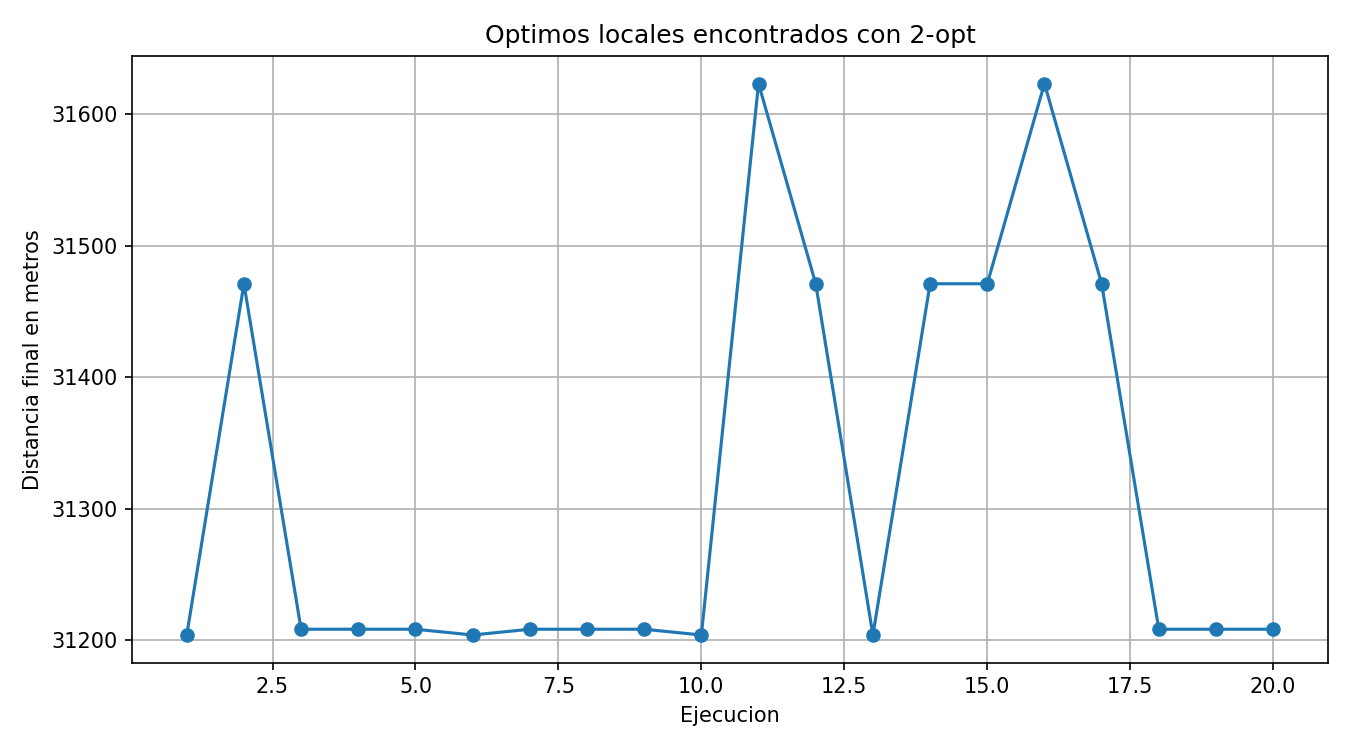
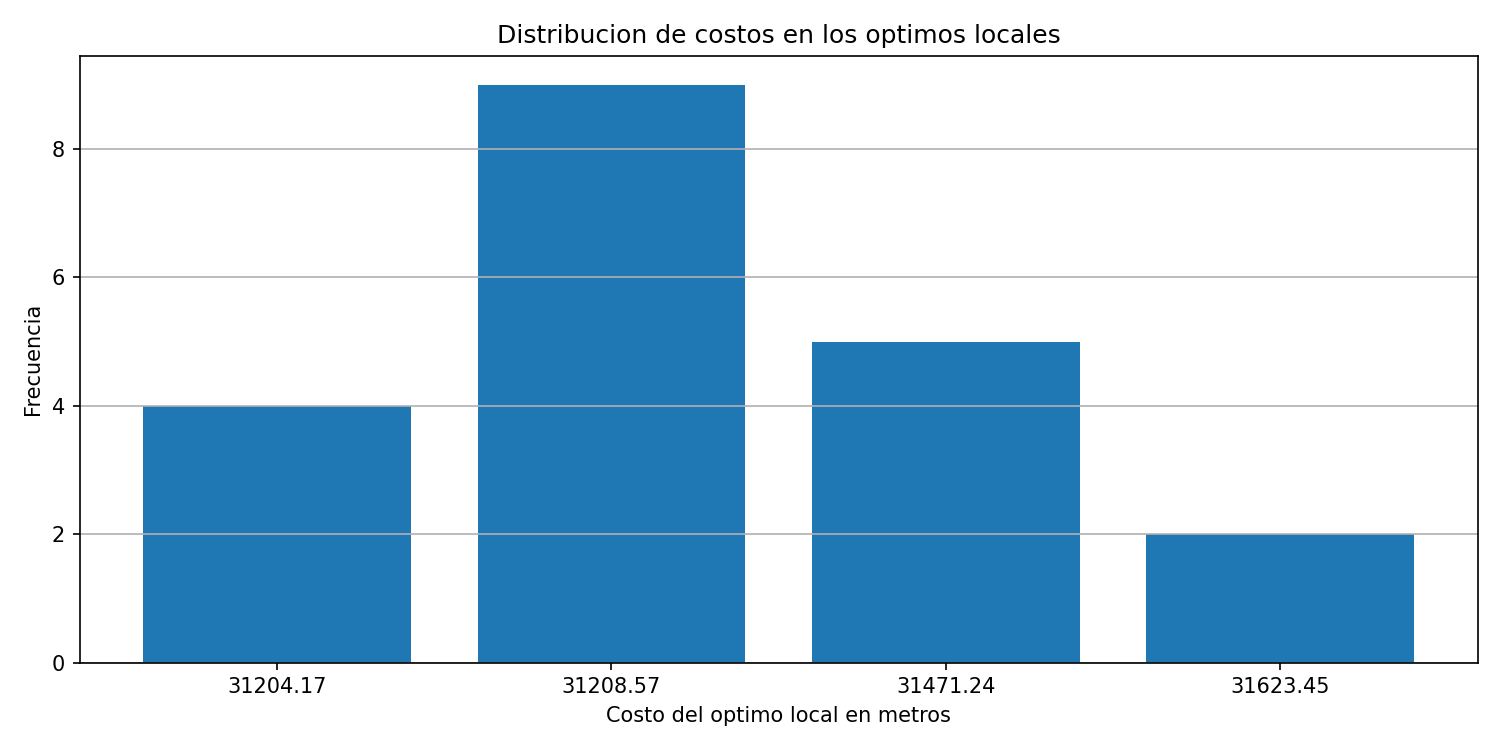
Corrige distribucion de optimos locales

diff --git a/fase3.py b/fase3.py
@@ -956,41 +956,36 @@ def guardar_grafica_temperaturas(
 # 17. GRAFICA DE OPTIMOS LOCALES
 # ==================================================
 
-def guardar_grafica_optimos(
-    costos
-):
+def guardar_grafica_optimos(costos):
+    costos_redondeados = []
 
-    ejecuciones = list(
-        range(
-            1,
-            len(costos) + 1
-        )
+    for costo in costos:
+        costos_redondeados.append(round(costo, 2))
+
+    valores = sorted(set(costos_redondeados))
+
+    frecuencias = []
+
+    for valor in valores:
+        frecuencias.append(costos_redondeados.count(valor))
+
+    etiquetas = []
+
+    for valor in valores:
+        etiquetas.append(str(valor))
+
+    plt.figure(figsize=(10, 5))
+
+    plt.bar(
+        etiquetas,
+        frecuencias
     )
 
-    plt.figure(
-        figsize=(9, 5)
-    )
+    plt.xlabel("Costo del optimo local en metros")
+    plt.ylabel("Frecuencia")
+    plt.title("Distribucion de costos en los optimos locales")
 
-    plt.plot(
-        ejecuciones,
-        costos,
-        marker="o"
-    )
-
-    plt.xlabel(
-        "Ejecucion"
-    )
-
-    plt.ylabel(
-        "Distancia final en metros"
-    )
-
-    plt.title(
-        "Optimos locales encontrados con 2-opt"
-    )
-
-    plt.grid()
-
+    plt.grid(axis="y")
     plt.tight_layout()
 
     plt.savefig(
